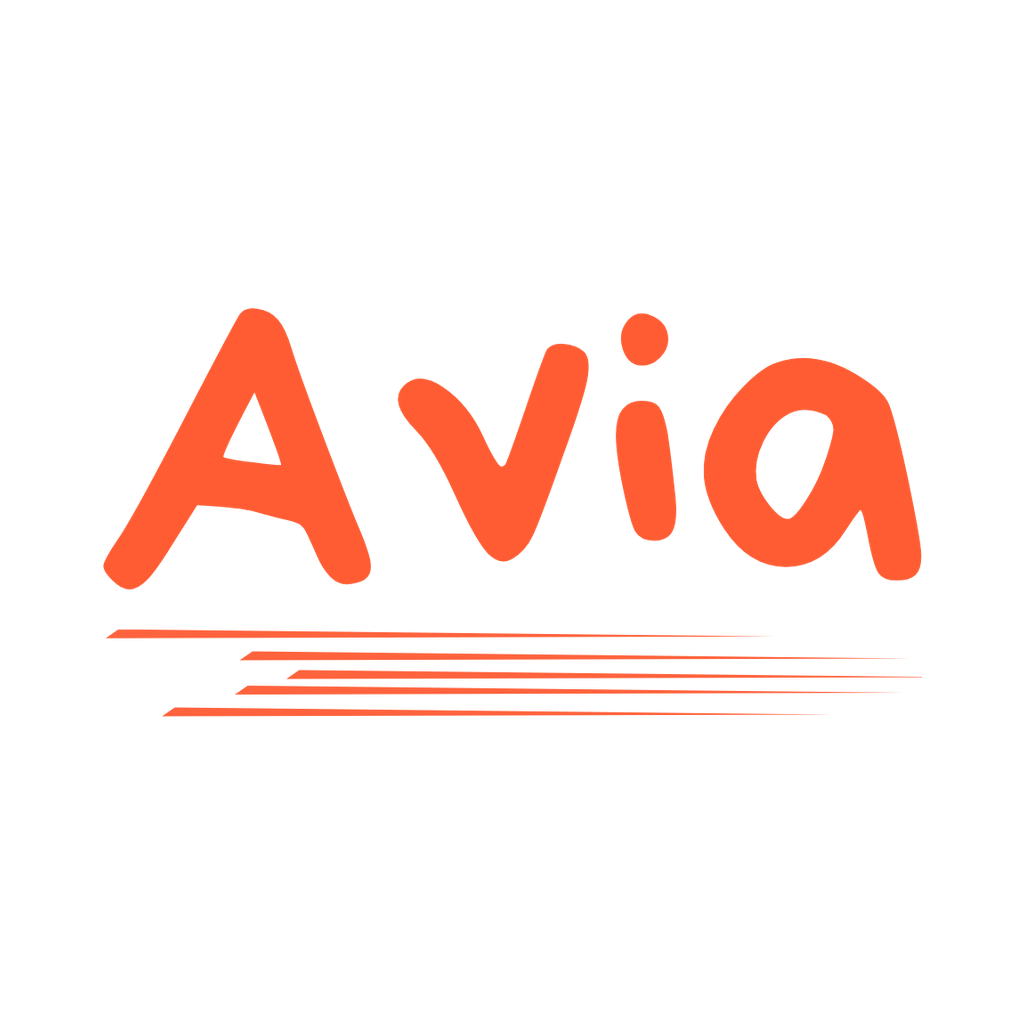
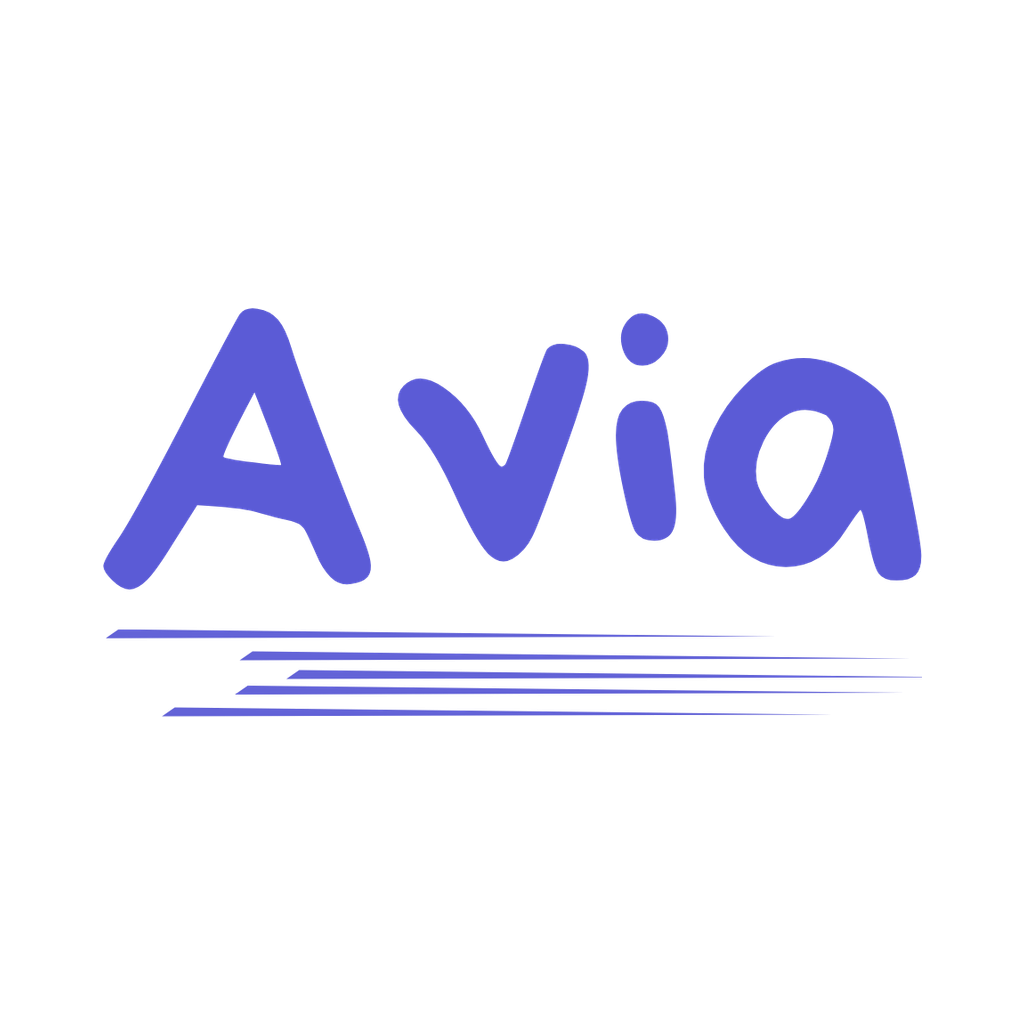
Nova identidade visual: índigo sereno no lugar do laranja
O laranja remetia a comida e urgência, e os usuários não gostaram. A marca
passa a ser índigo (#5B5BD6; #8B8CF0 no modo escuro): mais calma, lembra
das tarefas sem estressar, e é mais legível (contraste 5,1 contra 2,95 do
laranja). A escala de Hoje/Amanhã/próximos dias vira tons de índigo; o
verde do "feito" e o vermelho de alerta (atrasados, apagar) continuam.
Ícones (app, Android, splash, favicon e PWA), cor do tema do site e da
notificação regenerados em índigo. Identificadores do app inalterados.

Changed region(s): [[0.0938, 0.2812, 0.8125, 0.7188], [0.375, 0.3125, 0.9062, 0.5625]]

diff --git a/src/theme/paletas.ts b/src/theme/paletas.ts
@@ -1,12 +1,15 @@
-// Paleta AVIA: laranja-avermelhado = urgência/pendente, verde = conclusão.
-// A saturação do laranja cai conforme o horizonte de tempo se distancia de hoje.
+// Paleta AVIA: índigo = marca/pendente, verde = conclusão, vermelho só pra
+// alerta de verdade (atrasado, apagar). O índigo substituiu o laranja (que
+// remetia a comida/urgência) por uma identidade mais calma: lembra das
+// tarefas sem estressar. A intensidade do índigo cai conforme o horizonte de
+// tempo se distancia de hoje (as chaves urgent* mantêm o nome antigo).
 // Duas paletas (clara/escura) com as MESMAS chaves — ver ThemeContext.tsx,
 // que escolhe qual delas expor via useTheme() conforme a preferência do
 // usuário (ou o tema do sistema).
 
-// Laranja da identidade visual do Avia (título "Avia", frase do splash,
+// Índigo da identidade visual do Avia (título "Avia", frase do splash,
 // ícone do app) — fonte única pra essa cor; as paletas abaixo derivam dela.
-export const COR_MARCA = '#FF5C33';
+export const COR_MARCA = '#5B5BD6';
 
 export interface Paleta {
   // Cor da marca nesse esquema (clara usa COR_MARCA; escura, um tom um pouco
@@ -50,10 +53,10 @@ export const paletaClara: Paleta = {
   done: '#2ECC71',
   doneSoft: '#E8F9EF',
 
-  urgentHoje: '#FF5C33',
-  urgentAmanha: '#FF7A52',
-  urgentQuinzena: '#FF9B7A',
-  urgentMes: '#FFC2AC',
+  urgentHoje: COR_MARCA,
+  urgentAmanha: '#7676E0',
+  urgentQuinzena: '#9A9AEA',
+  urgentMes: '#BDBDF3',
 
   danger: '#E64A3B',
   white: '#FFFFFF',
@@ -68,7 +71,7 @@ export const paletaClara: Paleta = {
 // priority) ficam praticamente as mesmas — já são saturadas o bastante pra
 // continuar legíveis sobre fundo escuro.
 export const paletaEscura: Paleta = {
-  marca: '#FF6A42',
+  marca: '#8B8CF0',
 
   background: '#121212',
   surface: '#1E1E1E',
@@ -81,10 +84,10 @@ export const paletaEscura: Paleta = {
   done: '#2ECC71',
   doneSoft: '#16301F',
 
-  urgentHoje: '#FF6A42',
-  urgentAmanha: '#FF8961',
-  urgentQuinzena: '#E0987A',
-  urgentMes: '#8F6B5C',
+  urgentHoje: '#8B8CF0',
+  urgentAmanha: '#7C7DDB',
+  urgentQuinzena: '#6E6FC0',
+  urgentMes: '#55568A',
 
   danger: '#F26355',
   white: '#FFFFFF',
@@ -105,17 +108,17 @@ export function corPorPeriodoDaPaleta(paleta: Paleta): Record<PeriodoKey, string
 }
 
 const CORES_PERIODO_SOFT_CLARO: Record<PeriodoKey, string> = {
-  hoje: '#FFE8E1',
-  amanha: '#FFEEE7',
-  quinzena: '#FFF2EC',
-  mes: '#FFF6F1',
+  hoje: '#ECECFB',
+  amanha: '#F0F0FC',
+  quinzena: '#F4F4FD',
+  mes: '#F7F7FE',
 };
 
 const CORES_PERIODO_SOFT_ESCURO: Record<PeriodoKey, string> = {
-  hoje: '#3A2118',
-  amanha: '#33231C',
-  quinzena: '#2C2420',
-  mes: '#282624',
+  hoje: '#24244A',
+  amanha: '#212140',
+  quinzena: '#1F1F35',
+  mes: '#1C1C2A',
 };
 
 export function corPorPeriodoSoftDaPaleta(esquema: 'claro' | 'escuro'): Record<PeriodoKey, string> {

diff --git a/src/notifications/notifications.ts b/src/notifications/notifications.ts
@@ -90,7 +90,7 @@ export function configurarCanalAndroid() {
     Notifications.setNotificationChannelAsync('default', {
       name: 'AVIA',
       importance: Notifications.AndroidImportance.HIGH,
-      lightColor: '#FF5C33',
+      lightColor: '#5B5BD6',
     });
   }
 }
